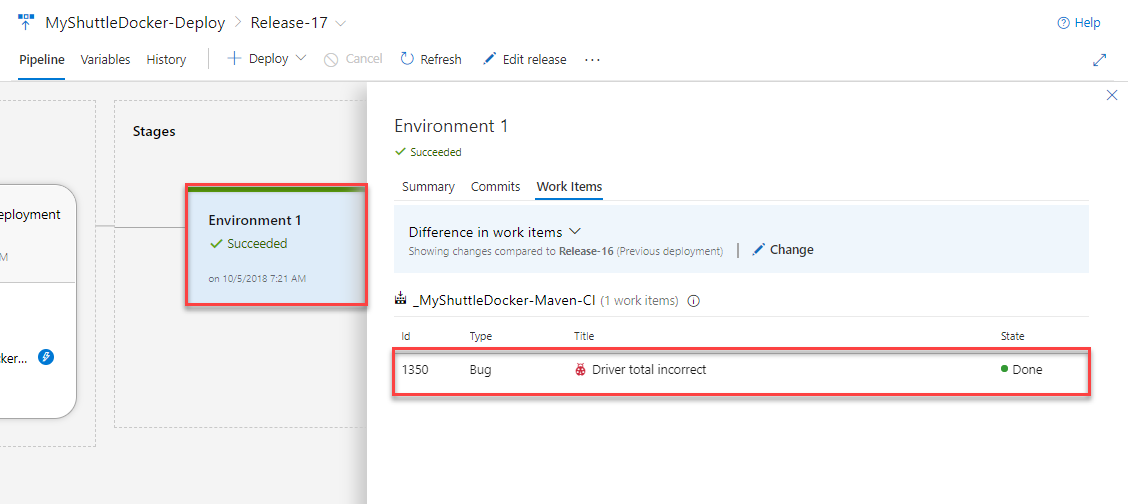
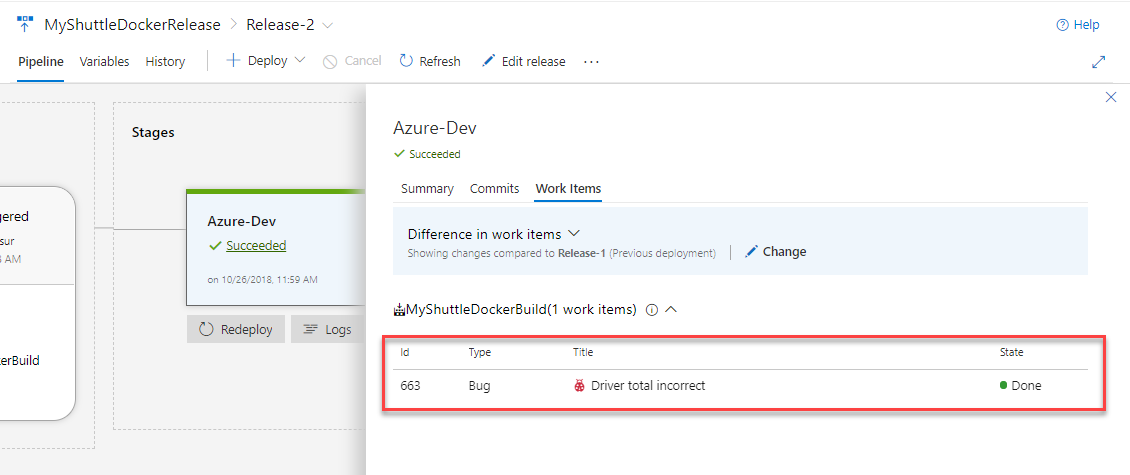
updated lab and screenshots

diff --git a/labs/vstsextend/eclipse/e2eeclipse/readme.md b/labs/vstsextend/eclipse/e2eeclipse/readme.md
@@ -58,15 +58,11 @@ In this task you will start a test session, discover a bug in the MyShuttle app 
 
 1. Once the bug has been created, click the Stop button in the Test Extension toolbar to end the test session.
 
-1. Navigate to your Azure DevOps Organization team project. Click **Boards** to navigate to the Work Hub. In the search toolbar, enter "driver" into the Search Work Items box and press enter or click the magnifying glass icon.
+1. Navigate to your Azure DevOps Organization team project. Click **Boards** to navigate to the Work Hub. In the search toolbar, enter "driver" into the Search Work Items box and press enter or click the magnifying glass icon. You should see the Bug that you logged. Take a moment to look at the Repro Steps.
 
     ![Search for the Bug](images/search-bug.png)
 
-1. You should see the Bug that you logged. Take a moment to look at the Repro Steps.
-
-    ![Bug details](images/bug-details.png)
-
-1. Assign the Bug to yourself and change the state to Active. Click Save.
+1. Assign the Bug to yourself and change the state to Approved. Click Save.
 
    {% include note.html content= "Now it's time to roll up your sleeves to detect the cause and find a fix for the bug. But before we make any code changes, we will create a **branch**. In the world of Git, teams generally create new branches to isolate changes for a feature or a bug fix from the master branch and other work. They commit and push changes to the remote branch. The changes are then presented to the rest of the team for review and approval via **Pull Request** before they are merged to the *master* branch. You can establish requirements for all pull requests to ensure high quality code and protect important branches with **Branch Policy**." %}
 
@@ -84,7 +80,7 @@ In this task, you will enforce quality on the master branch by creating branch p
 
     ![Branch Policy](/images/branchpolicy.png)
 
-1. Under **Build validation**, click **Add build policy** and select **MyShuttleDocker-Maven-CI** from the list of build definitions and click **Save**.
+1. Under **Build validation**, click **Add build policy** and select **MyShuttleDockerBuild** from the list of build definitions and click **Save**.
 
     ![Policy configuration](images/policy.png)
 
@@ -102,7 +98,7 @@ In this task you will create a branch of the code to fix the Bug. You will then 
 
     ![New query](images/newquery.png)
 
-1. You can run an existing query by double clicking it. Double click **Bugs** to get the list of bugs in the project.
+1. You can run an existing query by double clicking it. Double click **Bugs** query under *Shared Queries* to get the list of bugs in the project.
 
     ![Confirm the bug is correctly assigned and in VSTS](images/getbugsquery.png)
 
@@ -116,7 +112,7 @@ In this task you will create a branch of the code to fix the Bug. You will then 
 
     ![New branch](images/createbranch.png)
 
-1. Return to Eclipse. In the project view of Eclipse,right-select the project, choose **Team** and then **pull** to fetch the latest changes, including the new branch just created. Click **Finish** in the next pop-up, enter password if prompted, for the operation to complete.
+1. Return to Eclipse. In the project view of Eclipse,right-select the project, choose **Team** and then **Pull...** to fetch the latest changes, including the new branch just created. Click **Finish** in the next pop-up, enter password if prompted, for the operation to complete.
 
     ![Fetch Changes](images/gitpull.png)
 
@@ -144,11 +140,11 @@ In this task you will create a branch of the code to fix the Bug. You will then 
         session.setAttribute("driverFeeTotal", totalDriverFee);
     ```
 
-1. Save the file.  Commit the changes by right clicking the file and selecting **Team->Commit**. Enter *Fixing totals bug #{ID of bug}* as the commit message. By putting the # symbol followed by an ID of a work item in a commit message, Azure DevOps will automatically associate the work item with the commit when it's pushed to the server. In the example of the screenshot, the ID is #1350. Click **Commit and Push**to push the changes to Azure DevOps Organization.
+1. Save the file.  Commit the changes by right clicking the file and selecting **Team->Commit**. Enter *Fixing totals bug #{ID of bug}* as the commit message. By putting the # symbol followed by an ID of a work item in a commit message, Azure DevOps will automatically associate the work item with the commit when it's pushed to the server. In the example of the screenshot, the ID is #1350. Click **Commit and Push** to push the changes to Azure DevOps Organization.
 
     ![Commit and Push](images/eclipse-newcommit.png)
 
-1. Now that the fix has been pushed to Azure DevOps on a branch, you can create a *Pull Request. This will be done in Azure DevOps following the standard process for pull requests. Under the **Repos** hub, click on Files in the MyShuttleDocker repo and there should be a notification that you updated the `fixtotalsBug` branch. Click the link next to it, **Create a pull request**
+1. Now that the fix has been pushed to Azure DevOps on a branch, you can create a **Pull Request**. This will be done in Azure DevOps following the standard process for pull requests. Under the **Repos** hub, click on Files in the MyShuttleDocker repo and there should be a notification that you updated the `fixtotalsBug` branch. Click the link next to it, **Create a pull request**
 
     ![Create Pull Request](images/pullrequest.png)
 
@@ -180,11 +176,11 @@ In this task you will create a branch of the code to fix the Bug. You will then 
 
     ![Complete the merge](images/complete-merge.png)
 
-1. The PR completion triggers a new build off the master branch if CI trigger is set, which in turn will trigger a release if CD trigger is enabled. If not enabled, click *Builds* under **Pipelines** and queue a new build. _It also transitions the Bug work item to Resolved state_. 
+1. The PR completion triggers a new build off the master branch if CI trigger is set, which in turn will trigger a release if CD trigger is enabled. If not enabled, click *Builds* under **Pipelines** and queue a new build for the definition - *MyShuttleDockerBuild*. _It also transitions the Bug work item to Resolved state_. 
 
 1. When the build completes, you will see the unit test and code coverage results as well as SonarQube analysis and quality gates (if you have configured SonarQube integration).
 
-1. Click on Releases and open the latest release which should have triggered off the PR merge build completion event.
+1. Click on Releases and open the latest release which should have triggered off as *CD* the PR merge build completion event. If CD is not enabled, click *Releases* under **Pipelines** and queue a new release for the definition - *MyShuttleDockerRelease*. 
 
 1. On the Release Summary page, you will see the linked Bug work item.
 
